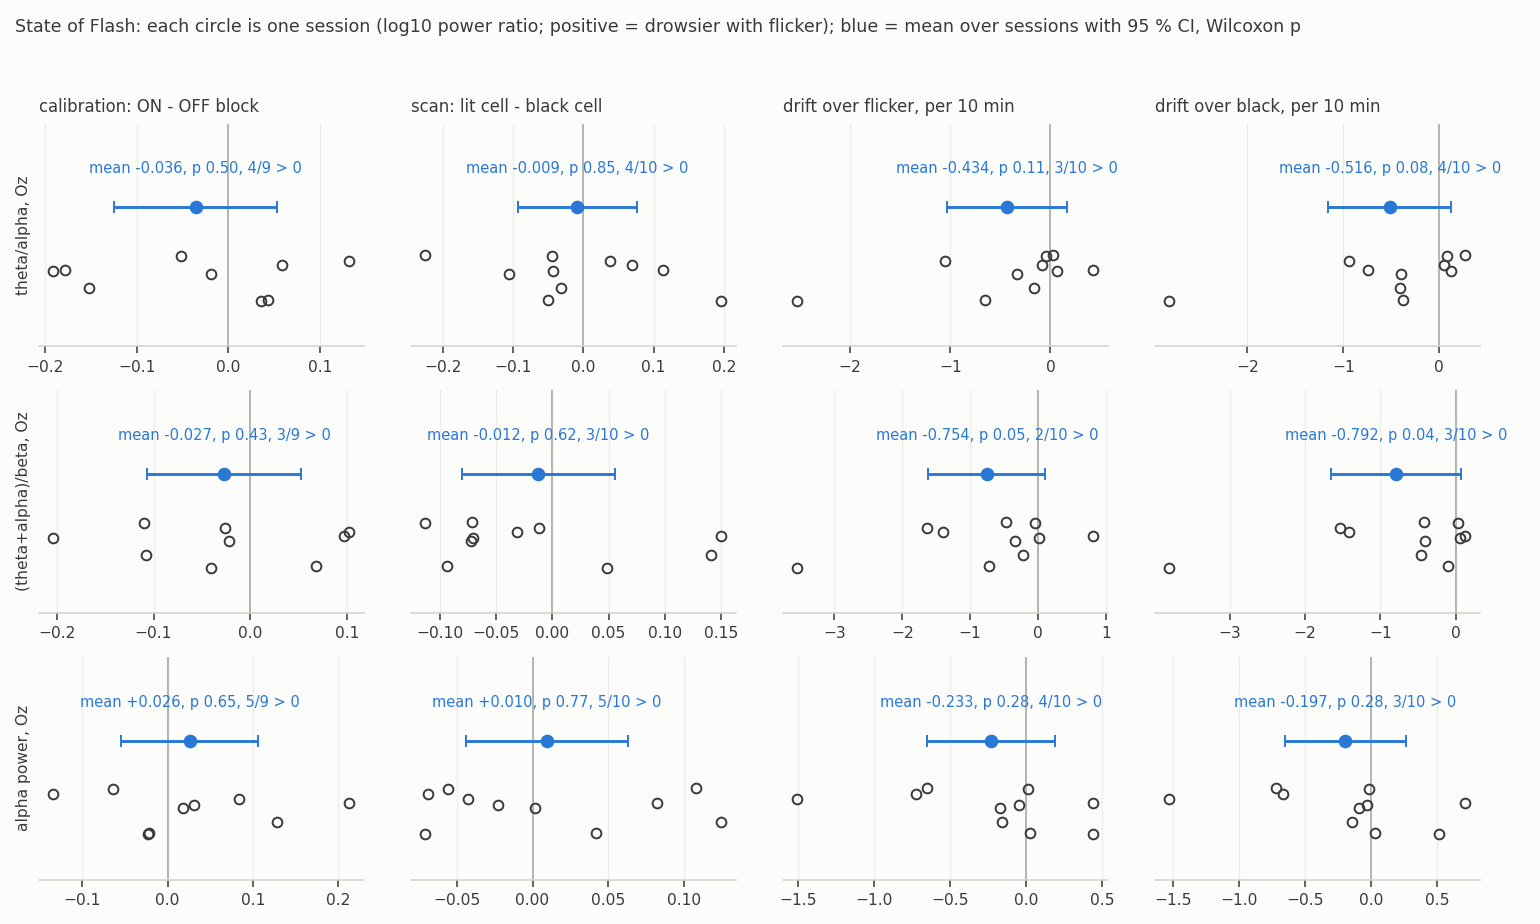
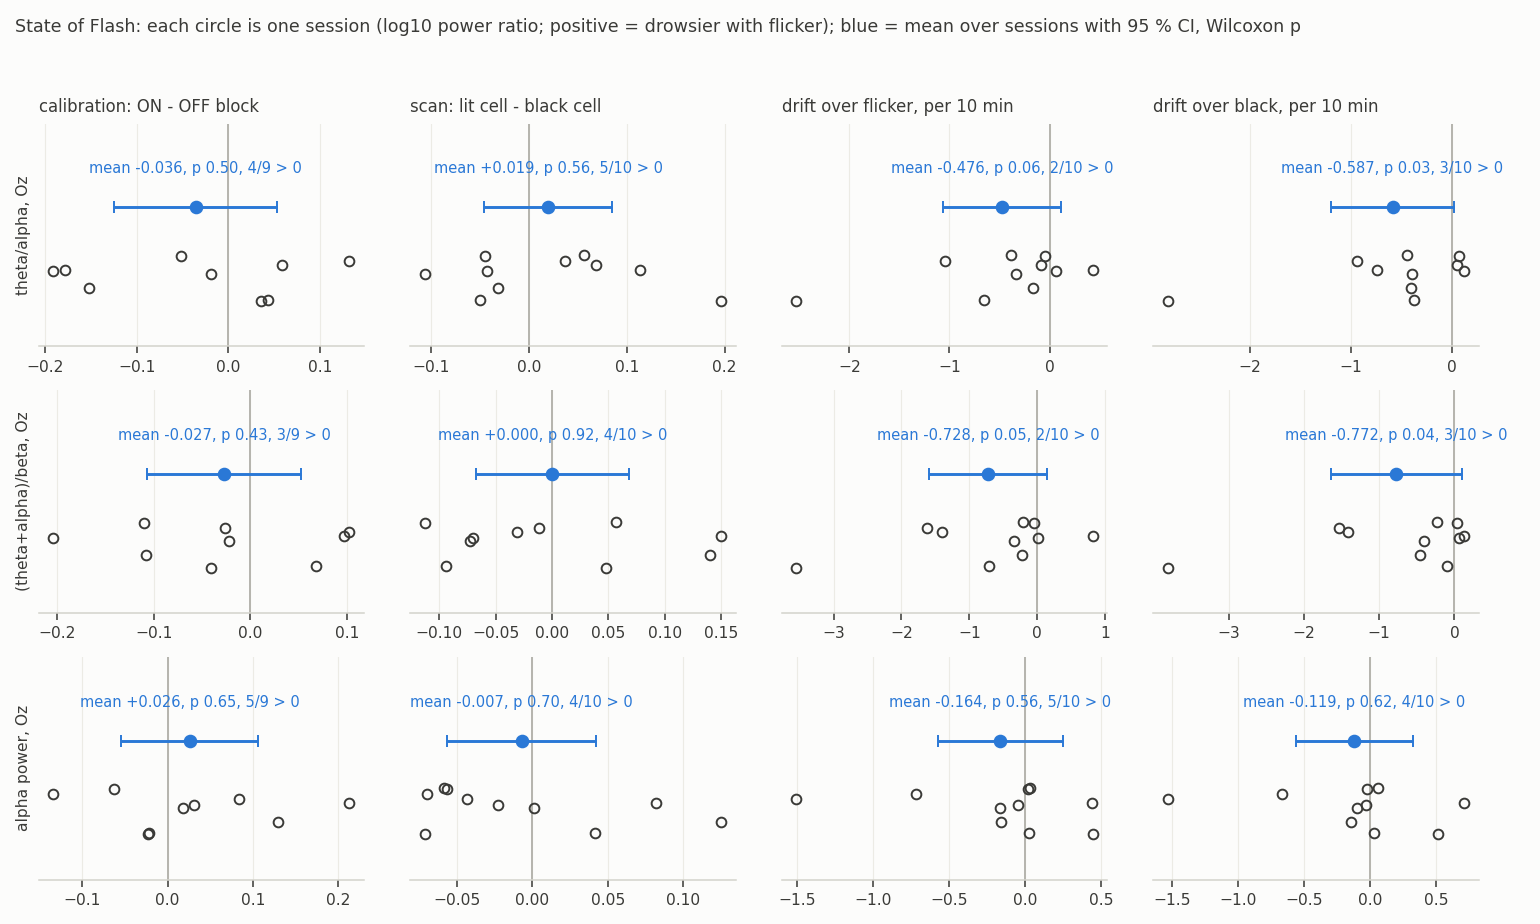
State of Flash: numbers and figures with the complete vr_planes8 session

diff --git a/docs/state_of_flash.md b/docs/state_of_flash.md
@@ -24,11 +24,11 @@ Markers per 2 s epoch after a 1 to 40 Hz band-pass, on Oz (the aux electrode) an
 
 ## What the EEG says
 
-**Acute: no.** With flicker on screen the EEG is not drowsier than with black on screen seconds away. On Oz, theta/alpha in the calibration blocks is -0.04 (95 % CI -0.13 to +0.05, p 0.50) and in the scans -0.01 (-0.09 to +0.08, p 0.85); (theta + alpha)/beta and alpha power are flat as well. The one effect that reaches p < 0.05 goes the other way: on the ears, theta/alpha is *lower* during the calibration ON blocks (-0.12, CI -0.24 to -0.01, p 0.049, 2 of 10 sessions positive). That is either the photic response spreading into the alpha band or a bright flashing field being mildly alerting; it is not a sign of drowsiness.
+**Acute: no.** With flicker on screen the EEG is not drowsier than with black on screen seconds away. On Oz, theta/alpha in the calibration blocks is -0.04 (95 % CI -0.12 to +0.05, p 0.50) and in the scans +0.02 (-0.05 to +0.09, p 0.56); (theta + alpha)/beta and alpha power are flat as well. The one effect that reaches p < 0.05 goes the other way: on the ears, theta/alpha is *lower* during the calibration ON blocks (-0.12, CI -0.24 to -0.01, p 0.049, 2 of 10 sessions positive). That is either the photic response spreading into the alpha band or a bright flashing field being mildly alerting; it is not a sign of drowsiness.
 
-**Drift: present, but not from the flicker.** Oz theta/alpha falls through a session: -0.43 per 10 min over flicker epochs (p 0.11) and -0.52 over black epochs (p 0.08); (theta + alpha)/beta on Oz falls by -0.75 and -0.79 per 10 min (p 0.049 and 0.037). The slope is the same whether a cell is flashing or not, so it is time, not flicker. The ears show no such drift (-0.06 and -0.09 per 10 min, p 0.28 and 0.38), and a fall of half a log unit in ten minutes is far too large for a brain state; it has the signature of the wet Oz electrode settling after it is put on (less low-frequency noise, so less "theta"). The direction is also the opposite of drowsiness.
+**Drift: present, but not from the flicker.** Oz theta/alpha falls through a session: -0.48 per 10 min over flicker epochs (p 0.06) and -0.59 over black epochs (p 0.027); (theta + alpha)/beta on Oz falls by -0.73 and -0.77 per 10 min (p 0.049 and 0.037). The slope is the same whether a cell is flashing or not, so it is time, not flicker. The ears show no such drift (-0.05 and -0.10 per 10 min, p 0.43 and 0.32), and a fall of half a log unit in ten minutes is far too large for a brain state; it has the signature of the wet Oz electrode settling after it is put on (less low-frequency noise, so less "theta"). The direction is also the opposite of drowsiness.
 
-**Eye closure: no difference.** The share of time with closed-eye alpha on Oz is the same with flicker and with black (-0.03, p 0.13).
+**Eye closure: no difference.** The share of time with closed-eye alpha on Oz is the same with flicker and with black (-0.03, p 0.08).
 
 **Blinks: not measurable.** Under the headset the forehead electrodes AF7 and AF8 are essentially flat (99.9th percentile under 50 uV in the blink band, no blinks at any threshold inside sessions), so blink rate and slow eye movements, the best EEG-side markers of sleepiness, are not available from these recordings.
 
